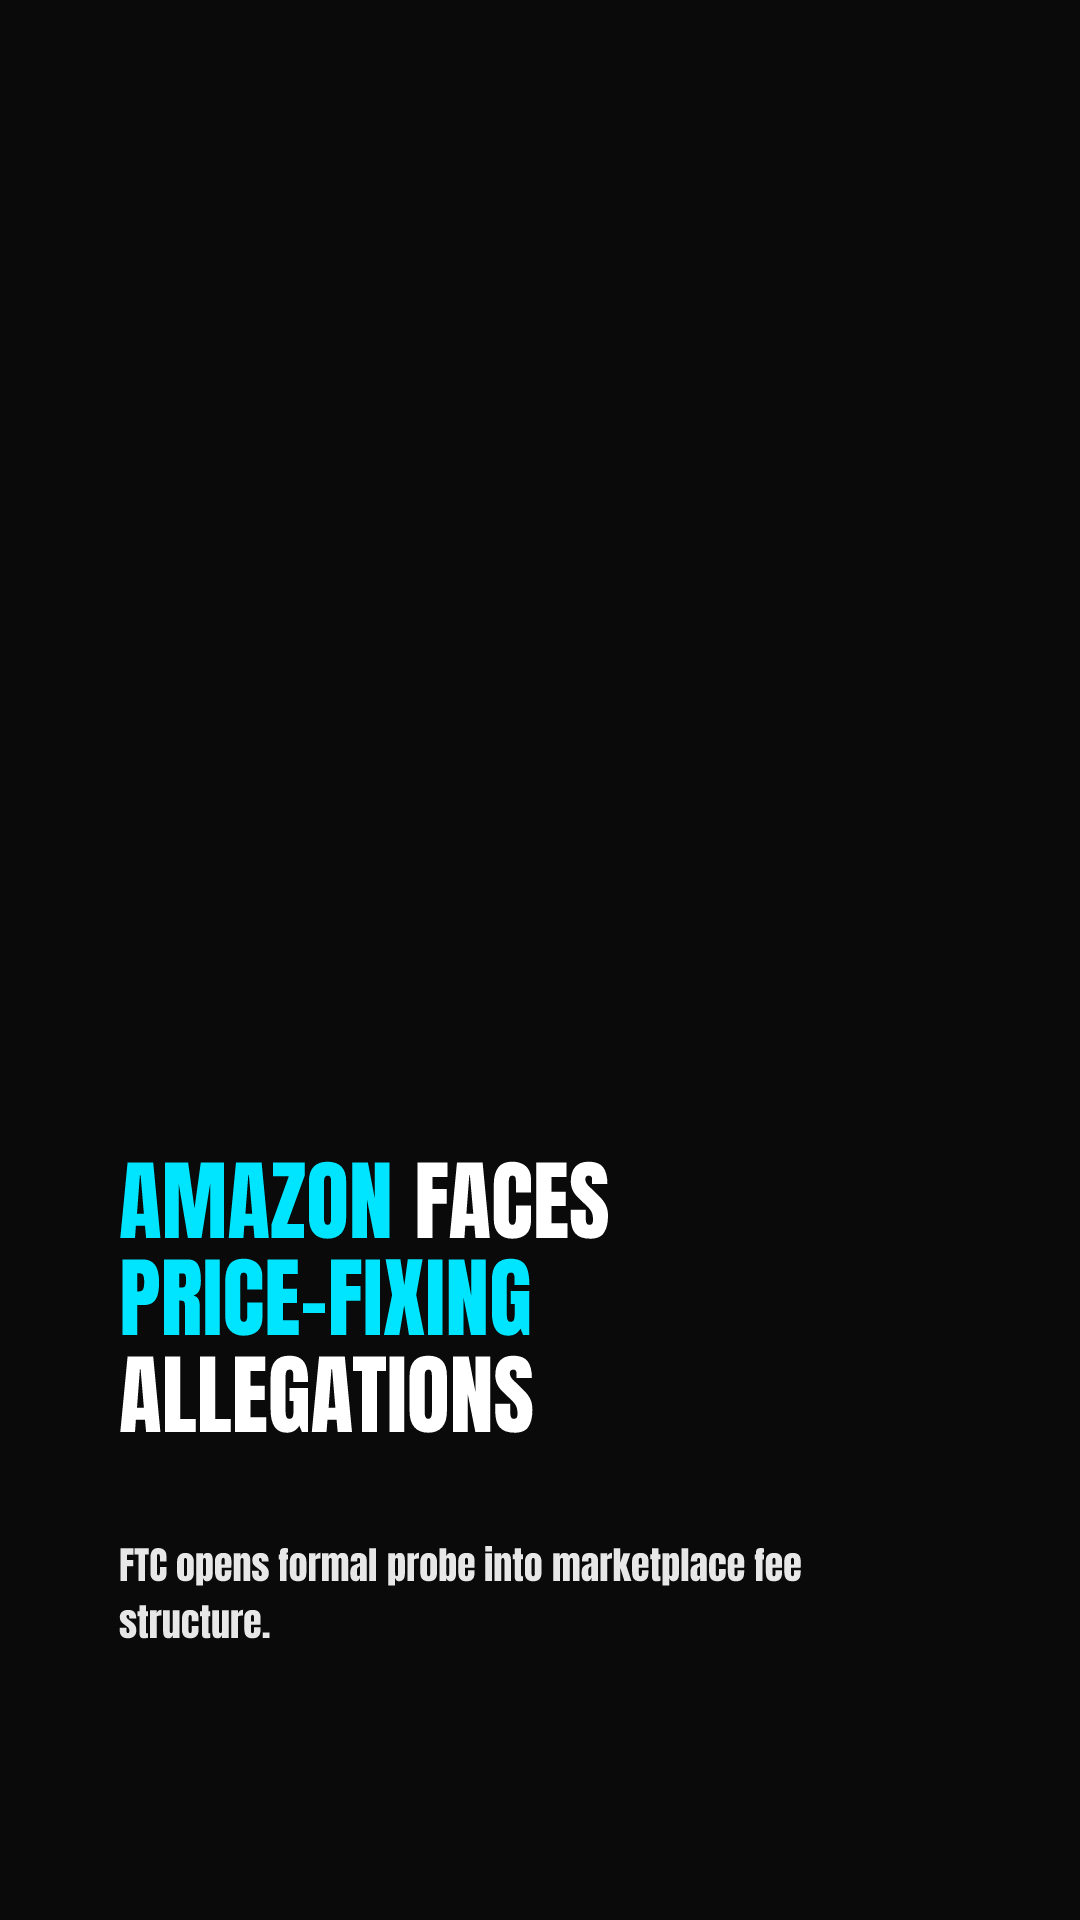
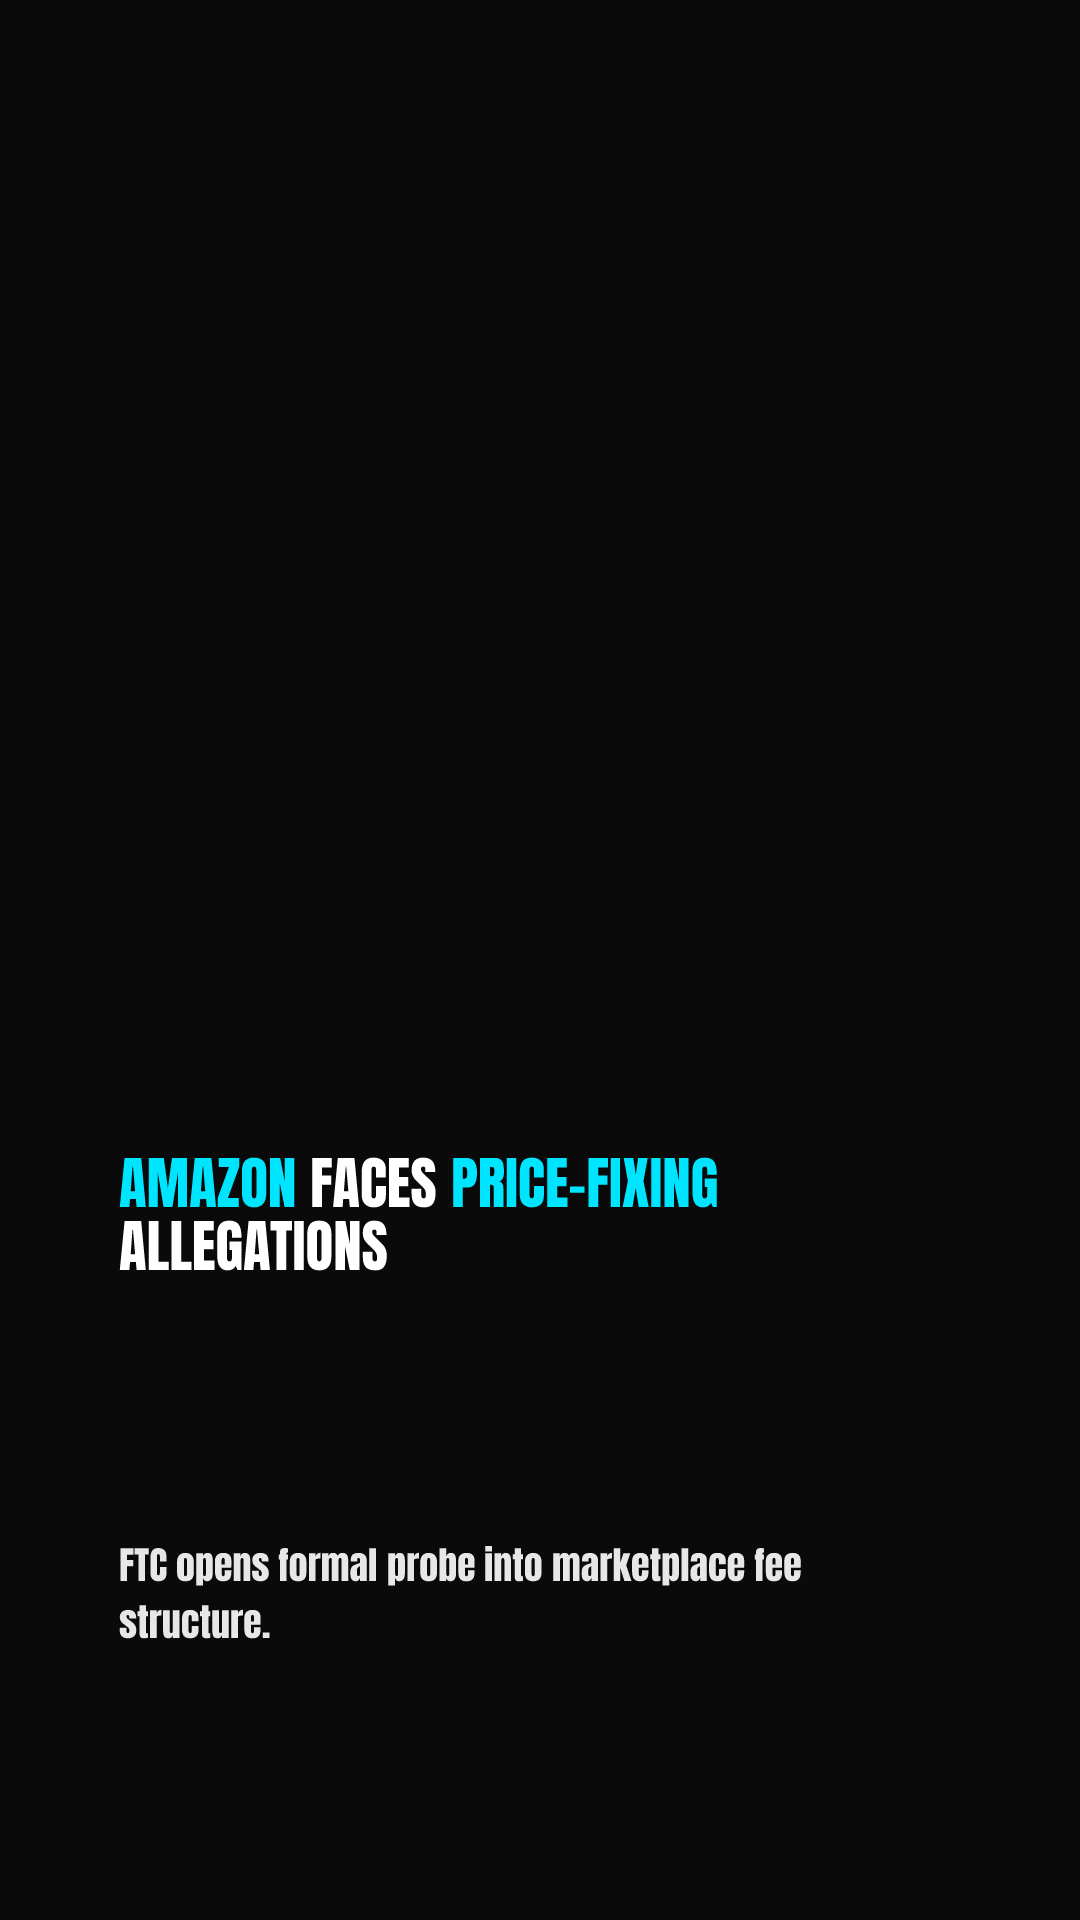
fix(render): AI-generated hooks wrap inside hook container
Two bugs combined to let AI-generated hooks bleed past the slide canvas:

1. news-drop / news-cyan auto-fit thresholds were too generous. 22 chars
   stayed at 110px Anton, which on a 78%-canvas hook container (842px)
   computes to ~1100px — overflows. Tighten the curve so each scale step
   guarantees single-line fit at 842px (math: 842 / (110 * scale * 0.45)
   chars per line, with safety buffer).

2. Plain segment spans had no `wordBreak` / `overflowWrap`, so a multi-
   word plain segment renders as a single non-breaking flex item. With
   `flex-wrap: wrap` the SEGMENT wraps but never breaks WITHIN, so AI-
   generated text (which always renders through segments to preserve
   highlight pills) bleeds when one segment exceeds the container width.
   Pills had this protection from the previous commit; plain spans need
   it too.

Also belt-and-suspenders: add `whiteSpace: 'normal'` + break-word props
to the editor's hook `<p>` style so the React preview wraps even if a
future segment renderer regression slips through.

Why the user saw it on AI output but not manual edits: manual textarea
typing produces a single hook_text string with no segments; renderSegments
returns it as a raw text node in the `<p>`, which wraps at word
boundaries naturally. AI output produces hook_segments[], which renders
as <span>s — and prior to this fix only pill spans had break-word.

Tests: hook-fit unit suite updated with the 3 real-world bug-report
[…]

Changed region(s): [[0.0917, 0.5938, 0.6722, 0.75]]

diff --git a/src/lib/render/__tests__/hook-fit.test.ts b/src/lib/render/__tests__/hook-fit.test.ts
@@ -19,15 +19,22 @@ describe('hook-fit registry', () => {
     expect(hasHookFit('bold-yellow')).toBe(false)
   })
 
-  it('preserves news template thresholds (v2.7 quick-task calibration)', () => {
-    // baseSize 110 — original Anton calibration unchanged.
+  it('news templates fit single-line into 78%-canvas hook container', () => {
+    // baseSize 110 — re-tightened 2026-05-02 to enforce single-line fit so
+    // AI-generated segment hooks don't bleed past the canvas.
     expect(getHookFontSize('news-drop', 'SHORT', 110)).toBe(110) // 5 chars → 1.0
-    expect(getHookFontSize('news-drop', 'A'.repeat(22), 110)).toBe(110) // 22 chars → 1.0
-    expect(getHookFontSize('news-drop', 'A'.repeat(23), 110)).toBe(88) // 23 chars → 0.80
-    expect(getHookFontSize('news-drop', 'A'.repeat(44), 110)).toBe(88) // 44 chars → 0.80
-    expect(getHookFontSize('news-drop', 'A'.repeat(45), 110)).toBe(70) // 45 chars → 0.64
-    expect(getHookFontSize('news-drop', 'A'.repeat(67), 110)).toBe(57) // 67+ chars → 0.52
-    expect(getHookFontSize('news-cyan', 'AMAZON FACES PRICE-FIXING ALLEGATIONS', 110)).toBe(88)
+    expect(getHookFontSize('news-drop', 'A'.repeat(14), 110)).toBe(110) // 14 chars → 1.0
+    expect(getHookFontSize('news-drop', 'A'.repeat(15), 110)).toBe(88) // 15 chars → 0.80
+    expect(getHookFontSize('news-drop', 'A'.repeat(22), 110)).toBe(88) // 22 chars → 0.80
+    expect(getHookFontSize('news-drop', 'A'.repeat(23), 110)).toBe(72) // 23 chars → 0.65
+    expect(getHookFontSize('news-drop', 'A'.repeat(32), 110)).toBe(72) // 32 chars → 0.65
+    expect(getHookFontSize('news-drop', 'A'.repeat(33), 110)).toBe(57) // 33 chars → 0.52
+    expect(getHookFontSize('news-drop', 'A'.repeat(48), 110)).toBe(57) // 48 chars → 0.52
+    expect(getHookFontSize('news-drop', 'A'.repeat(80), 110)).toBe(46) // 49+ chars → 0.42
+    // Real samples from the regression bug report
+    expect(getHookFontSize('news-cyan', 'AMAZON FACES PRICE-FIXING ALLEGATIONS', 110)).toBe(57) // 37 chars → 0.52
+    expect(getHookFontSize('news-cyan', 'VIRALITY WAS HER ONLY HOPE', 110)).toBe(72) // 26 chars → 0.65
+    expect(getHookFontSize('news-cyan', 'THIS IS A HUGE PROBLEM', 110)).toBe(88) // 22 chars → 0.80
   })
 
   it('scales premium template hooks (Plus Jakarta Sans, tighter curve for bottom-card layouts)', () => {

diff --git a/src/lib/render/hook-fit.ts b/src/lib/render/hook-fit.ts
@@ -13,23 +13,30 @@ type HookFitSpec = { baseSize: number; steps: HookFitStep[] }
 // `steps` are evaluated in order; first step where `len <= maxChars` wins.
 // If none match, the last step's scale applies.
 const HOOK_FIT_REGISTRY: Record<string, HookFitSpec> = {
-  // News templates — Anton (condensed). Original v2.7 calibration preserved.
+  // News templates — Anton (condensed) at 110px on a hookWidth ≈ 78% canvas
+  // (842px). Original calibration assumed 2-line wraps were OK; in practice
+  // AI-generated segment-rendered hooks don't always wrap inside spans, so
+  // single-line widths must fit the container. Tightened thresholds enforce
+  // single-line fit at each scale step (rough char-width math: Anton at S px
+  // averages ~0.45*S per char; container fits ~842/0.45*S chars = 1871/S).
   'news-drop': {
     baseSize: 110,
     steps: [
-      { maxChars: 22, scale: 1 },
-      { maxChars: 44, scale: 0.8 },
-      { maxChars: 66, scale: 0.64 },
-      { maxChars: Infinity, scale: 0.52 },
+      { maxChars: 14, scale: 1 },
+      { maxChars: 22, scale: 0.8 },
+      { maxChars: 32, scale: 0.65 },
+      { maxChars: 48, scale: 0.52 },
+      { maxChars: Infinity, scale: 0.42 },
     ],
   },
   'news-cyan': {
     baseSize: 110,
     steps: [
-      { maxChars: 22, scale: 1 },
-      { maxChars: 44, scale: 0.8 },
-      { maxChars: 66, scale: 0.64 },
-      { maxChars: Infinity, scale: 0.52 },
+      { maxChars: 14, scale: 1 },
+      { maxChars: 22, scale: 0.8 },
+      { maxChars: 32, scale: 0.65 },
+      { maxChars: 48, scale: 0.52 },
+      { maxChars: Infinity, scale: 0.42 },
     ],
   },
   // Premium magazine — Plus Jakarta Sans (proportional, wider) on a tight

diff --git a/src/lib/render/resolve-overlay.ts b/src/lib/render/resolve-overlay.ts
@@ -202,7 +202,19 @@ export function renderSegments(
     const children = isLast ? normalized : `${normalized} `
     return React.createElement(
       'span',
-      { key: `${i}-${seg.text.slice(0, 20)}`, style: { color: baseSegmentColor, ...segmentFontFamily } },
+      {
+        key: `${i}-${seg.text.slice(0, 20)}`,
+        style: {
+          color: baseSegmentColor,
+          // Same wrap protections as pill segments — keeps a long plain
+          // segment from extending past the hook container's flex bounds
+          // and bleeding past the canvas.
+          maxWidth: '100%',
+          wordBreak: 'break-word',
+          overflowWrap: 'break-word',
+          ...segmentFontFamily,
+        },
+      },
       children,
     )
   })

diff --git a/src/components/slides/slide-preview.tsx b/src/components/slides/slide-preview.tsx
@@ -430,6 +430,11 @@ export function SlidePreview({
     fontStyle: hookFontStyle === 'italic' ? 'italic' : (template.hookStyle === 'italic' ? 'italic' : undefined),
     textTransform: template.hookStyle === 'uppercase' ? 'uppercase' : undefined,
     color: hookTextColor,
+    // Wrap inside the hook container — AI segment-rendered hooks must respect
+    // the hook box width and not bleed past the slide canvas.
+    whiteSpace: 'normal',
+    wordBreak: 'break-word',
+    overflowWrap: 'break-word',
   }
   const bodyTextStyle: React.CSSProperties = {
     fontSize: `${bodyFontSize}px`,
